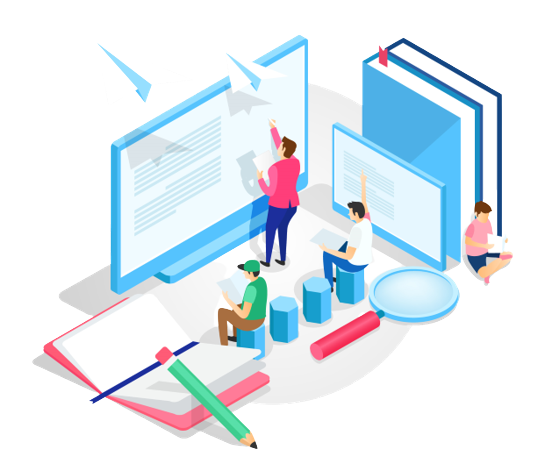
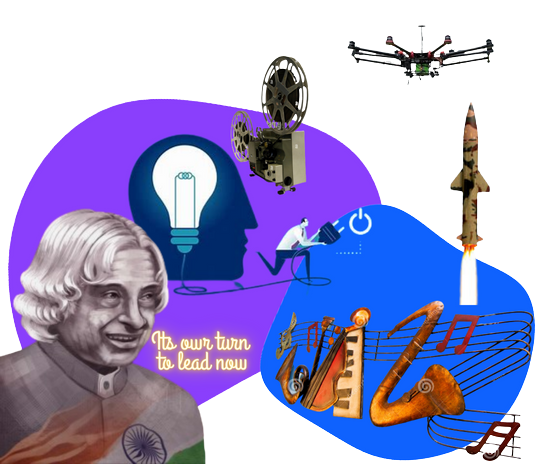
version3

diff --git a/index.html b/index.html
@@ -216,7 +216,7 @@
         </div>
         <!--Right Col-->
         <div class="w-full md:w-3/5 py-6 text-center">
-          <img class="w-full md:w-4/5 z-50" src="hero.png" />
+          <img class="w-full md:w-4/5 z-50" style="border-radius: 30px;" src="hero.png" />
         </div>
       </div>
     </div>
@@ -547,7 +547,7 @@
                 Our Vision & Mission
               </h3>
               <p class="text-gray-600 mb-8">
-                Vission - To promote innovations, organize events,seminars,training and provide product development facilities. <br> Mission - Taking ideas of the nurtured young minds and leading it to the global and diversified environment.
+                Vision - To promote innovations, organize events,seminars,training and provide product development facilities. <br> Mission - Taking ideas of the nurtured young minds and leading it to the global and diversified environment.
                 <br />
                 <br />
                 For event updates - 
@@ -585,11 +585,11 @@
                   <br><b> <font size="5">Registration fee </b><br></font>
                   <b><font size="4">📌699/- only</b><br></font>
                   <br><b><font size="5">🏆🏆Awards🏆🏆</b></font> <br>
-                   <br><b> <font size="5" color="yellow;">💥First- ₹40,000  ||   पहला स्थान रू  40,000</b></font><br>
-                   <br><b><font size="5" color="yellow;">🎇Second - ₹25,000  ||   दूसरा स्थान रु 25000</b></font><br>
-                   <br><b><font size="5" color="##079094">✨Third - ₹15,000  ||   तीसरा स्थान रु 15000</b></font><br>
-                   <br><b><font size="5" color="#079094">🎆Fourth-₹10,000  ||   चौथा स्थान रु 10000</b></font><br>
-                   <br><b><font size="5" color="#079094">🎊Fifth - ₹5,000  ||   पांचवा स्थान रु 5000</b></font><br>
+                   <br><b> <font size="5" color="yellow;"><img src="./r1.png" width="200px">First- ₹40,000  ||   पहला स्थान रू  40,000</b></font><br>
+                   <br><b><font size="5" color="yellow;"><img src="./r2.png" width="200px">Second - ₹25,000  ||   दूसरा स्थान रु 25000</b></font><br>
+                   <br><b><font size="5" color="##079094"><img src="./r3.png" width="200px">Third - ₹15,000  ||   तीसरा स्थान रु 15000</b></font><br>
+                   <br><b><font size="5" color="#079094"><img src="./r4.png" width="200px">Fourth-₹10,000  ||   चौथा स्थान रु 10000</b></font><br>
+                   <br><b><font size="5" color="#079094"><img src="./r5.png" width="200px">Fifth - ₹5,000  ||   पांचवा स्थान रु 5000</b></font><br>
                    <br><b><font size="5" color="#079094">🎁Sixth to tenth - Mobile Tripod  ||  छठवीं से दसवें स्थान तक मोबाइल ट्राइपॉड।</font>
                                    <br><br><font size="5"> &<br></font>
                          <br><font size="6"  color="	#DAA520">A golden chance to win a selfie with a
